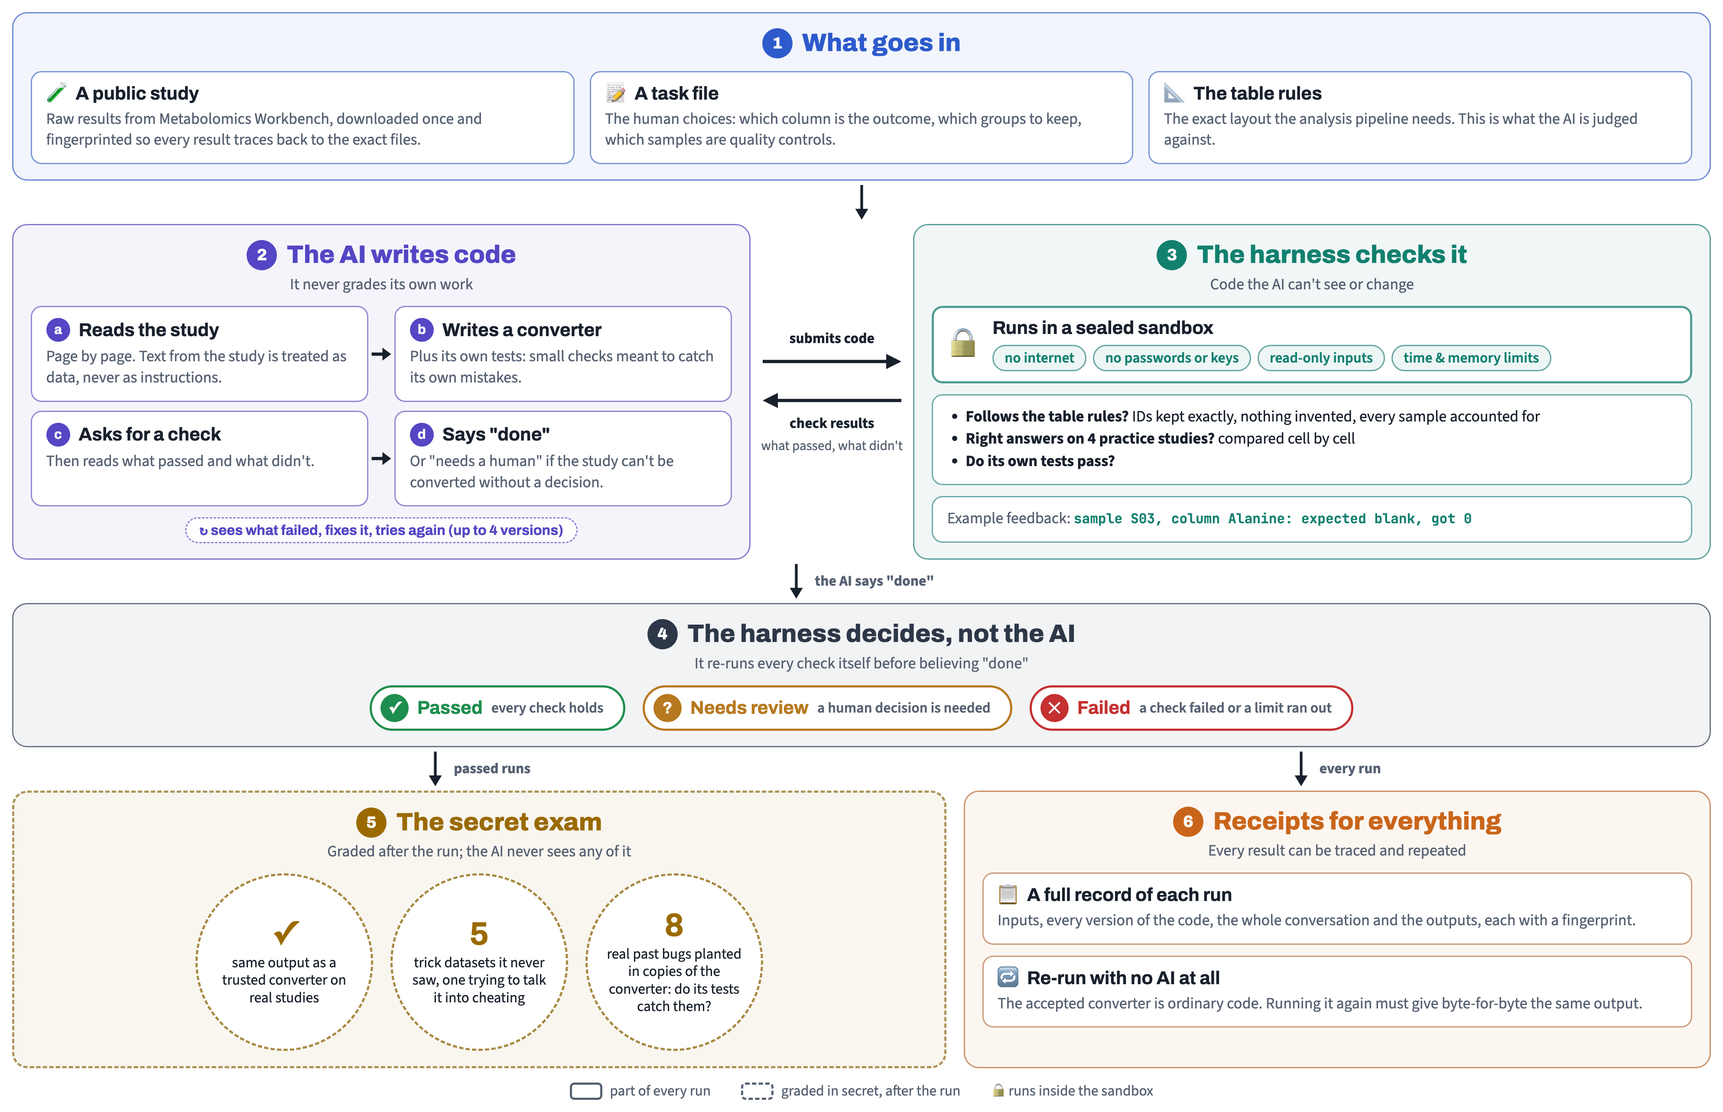
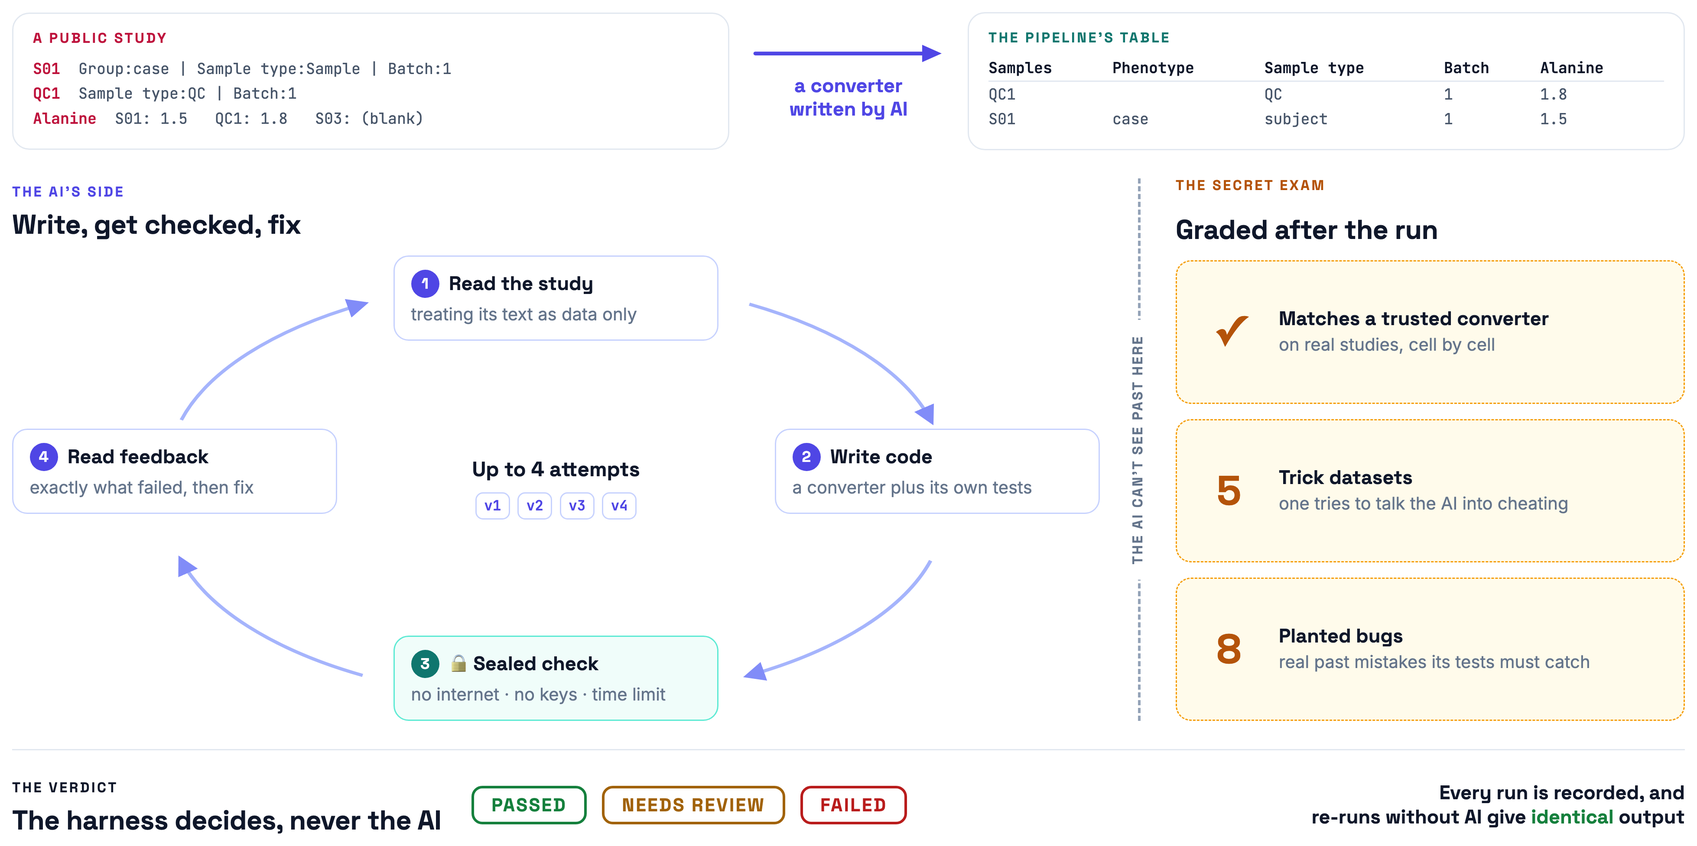
Redesign the how-it-works figure around this workflow
Replace the tx_analysis-style stacked bands with a layout specific to this
harness, with less text:

- the job, shown literally: a raw study snippet becomes the pipeline's table
  through a converter written by AI;
- the repair loop drawn as a loop of four steps around 'up to 4 attempts',
  with the sealed sandbox as one of them;
- a dashed line the AI can't see past, with the secret exam on the other side;
- the verdict stamps and the identical re-run.

Its own fonts and palette. The README alt text describes the new figure.

diff --git a/docs/figures/how-it-works.html b/docs/figures/how-it-works.html
@@ -3,210 +3,146 @@
 <head>
 <meta charset="utf-8">
 <title>study-onboarding-agent: how it works</title>
-<link rel="stylesheet" href="https://fonts.googleapis.com/css2?family=Archivo:wght@600;700;800&family=JetBrains+Mono:wght@500;700&family=Source+Sans+3:wght@400;600;700&display=block">
+<link rel="stylesheet" href="https://fonts.googleapis.com/css2?family=Space+Grotesk:wght@500;700&family=Inter:wght@400;500;600&family=JetBrains+Mono:wght@400;600&display=block">
 <style>
 :root {
-  --paper: #FFFFFF;
-  --ink: #18202C;
-  --muted: #566172;
-  --line: #CAD2DD;
-  --inputs: #2E5BCB;
-  --agent: #5446C4;
-  --harness: #12806F;
-  --decide: #2D3748;
-  --hidden: #9A6A00;
-  --record: #C9651A;
-  --pass: #1E8E4E;
-  --review: #B7791F;
-  --fail: #C53030;
-  --display: "Archivo", "Helvetica Neue", Arial, sans-serif;
-  --body: "Source Sans 3", "Segoe UI", Arial, sans-serif;
+  --ink: #0F172A;
+  --muted: #64748B;
+  --line: #E2E8F0;
+  --agent: #4F46E5;
+  --box: #0F766E;
+  --exam: #B45309;
+  --raw: #BE123C;
+  --pass: #15803D;
+  --review: #A16207;
+  --fail: #B91C1C;
+  --display: "Space Grotesk", "Helvetica Neue", Arial, sans-serif;
+  --body: "Inter", "Segoe UI", Arial, sans-serif;
   --mono: "JetBrains Mono", Menlo, monospace;
 }
 * { box-sizing: border-box; }
-html, body { margin: 0; background: var(--paper); color: var(--ink); font-family: var(--body); font-size: 15px; line-height: 1.35; }
-.canvas { width: 1600px; padding: 16px; display: grid; }
+html, body { margin: 0; background: #fff; color: var(--ink); font-family: var(--body); font-size: 16px; line-height: 1.4; }
+.canvas { width: 1600px; padding: 24px 28px; display: grid; gap: 26px; }
+.label { font: 700 13px/1 var(--display); letter-spacing: .14em; text-transform: uppercase; }
+h2 { margin: 6px 0 0; font: 700 25px/1.15 var(--display); letter-spacing: -.01em; }
+p { margin: 0; color: var(--muted); }
 
-.band {
-  --hue: var(--muted);
-  border: 1.5px solid color-mix(in srgb, var(--hue) 60%, var(--line));
-  background: color-mix(in srgb, var(--hue) 6%, var(--paper));
-  border-radius: 14px; padding: 12px 16px 14px; display: grid; gap: 10px; align-content: start;
-}
-.band.hidden { border-style: dashed; border-width: 2px; }
-.inputs { --hue: var(--inputs); }
-.agent { --hue: var(--agent); }
-.harness { --hue: var(--harness); }
-.decide { --hue: var(--decide); }
-.hiddenb { --hue: var(--hidden); }
-.record { --hue: var(--record); }
+/* 1. before -> after */
+.job { display: grid; grid-template-columns: 1fr 220px 1fr; align-items: center; gap: 0; }
+.pane { border: 1.5px solid var(--line); border-radius: 16px; padding: 16px 18px; display: grid; gap: 10px; }
+.raw .label { color: var(--raw); }
+.clean .label { color: var(--box); }
+.rawtext { font: 400 14px/1.65 var(--mono); color: #475569; white-space: pre; }
+.rawtext b { color: var(--raw); font-weight: 600; }
+table { border-collapse: collapse; font: 400 14px/1.5 var(--mono); }
+th, td { padding: 1px 16px 1px 0; text-align: left; }
+th { font-weight: 600; color: var(--ink); border-bottom: 1.5px solid var(--line); }
+td { color: #475569; }
+.bridge { display: grid; justify-items: center; gap: 8px; text-align: center; }
+.bridge svg { width: 180px; height: 22px; }
+.bridge b { font: 700 18px/1.2 var(--display); color: var(--agent); }
 
-.head { display: grid; justify-items: center; gap: 2px; text-align: center; }
-.title { font-family: var(--display); font-weight: 800; font-size: 23px; color: var(--hue); margin: 0; display: flex; align-items: center; gap: 9px; }
-.badge { width: 28px; height: 28px; border-radius: 50%; display: grid; place-items: center; background: var(--hue); color: #fff; font: 800 15px/1 var(--display); }
-.role { margin: 0; color: var(--muted); font-size: 14.5px; }
+/* 2. the AI's loop | wall | the secret exam */
+.stage { display: grid; grid-template-columns: 1fr 70px 470px; }
+.room .label { color: var(--agent); }
+.ring { position: relative; height: 430px; margin-top: 14px; }
+.ring svg { position: absolute; inset: 0; width: 100%; height: 100%; }
+.node { position: absolute; width: 300px; background: #fff; border: 1.5px solid #C7D2FE; border-radius: 14px; padding: 12px 15px; display: grid; gap: 4px; }
+.node h3 { margin: 0; font: 700 18px/1.2 var(--display); display: flex; align-items: center; gap: 9px; }
+.n { flex: none; width: 26px; height: 26px; border-radius: 50%; background: var(--agent); color: #fff; display: grid; place-items: center; font: 700 14px/1 var(--display); }
+.n1 { left: calc(50% - 150px); top: 0; }
+.n2 { right: 0; top: 160px; }
+.n3 { left: calc(50% - 150px); bottom: 0; border-color: #5EEAD4; background: #F0FDFA; }
+.n3 .n { background: var(--box); }
+.n4 { left: 0; top: 160px; }
+.hub { position: absolute; left: calc(50% - 110px); top: 140px; width: 220px; height: 150px; display: grid; place-content: center; justify-items: center; gap: 10px; text-align: center; }
+.hub b { font: 700 19px/1.2 var(--display); }
+.tries { display: flex; gap: 7px; }
+.tries i { font: 600 13px/1 var(--mono); font-style: normal; color: var(--agent); border: 1.5px solid #C7D2FE; border-radius: 7px; padding: 5px 7px; }
 
-.card {
-  background: var(--paper); border: 1.5px solid color-mix(in srgb, var(--hue) 50%, var(--line));
-  border-radius: 10px; padding: 10px 13px 11px; display: grid; gap: 4px; align-content: start;
-}
-.card.hidden { border-style: dashed; }
-.card h3 { font-family: var(--display); font-weight: 700; font-size: 17px; margin: 0; line-height: 1.15; display: flex; align-items: center; gap: 8px; }
-.card p { margin: 0; font-size: 14.5px; color: var(--muted); }
-.card ul { margin: 0; padding-left: 17px; font-size: 14.5px; display: grid; gap: 1px; }
-.icon { font-size: 19px; line-height: 1; }
-.num { flex: none; width: 22px; height: 22px; border-radius: 50%; display: grid; place-items: center;
-  font: 700 12.5px/1 var(--display); color: #fff; background: var(--hue); }
-.mono { font-family: var(--mono); font-size: 12.5px; color: var(--hue); font-weight: 700; }
+.wall { position: relative; display: grid; place-items: center; }
+.wall::before { content: ""; position: absolute; top: 0; bottom: 0; left: 50%; border-left: 2.5px dashed #94A3B8; }
+.wall span { position: relative; writing-mode: vertical-rl; transform: rotate(180deg); background: #fff; padding: 14px 0;
+  font: 700 13px/1 var(--display); letter-spacing: .12em; text-transform: uppercase; color: var(--muted); }
 
-.row3 { display: grid; grid-template-columns: 1fr 1fr 1fr; gap: 14px; }
-.steps { display: grid; grid-template-columns: 1fr 24px 1fr; gap: 8px 0; align-items: stretch; }
-.arr { display: grid; place-items: center; color: var(--ink); }
-.arr svg { width: 20px; height: 14px; }
+.exam { display: grid; gap: 14px; grid-template-rows: auto auto 1fr 1fr 1fr; }
+.exam .label { color: var(--exam); }
+.item { display: grid; grid-template-columns: 64px 1fr; gap: 2px 14px; align-items: center; align-content: center; border: 1.5px dashed #F59E0B; background: #FFFBEB; border-radius: 14px; padding: 14px 16px; }
+.item .big { grid-row: span 2; font: 700 38px/1 var(--display); color: var(--exam); text-align: center; }
+.item h3 { margin: 0; font: 700 18px/1.2 var(--display); }
 
-/* the repair loop: agent | exchange arrows | harness */
-.loop { display: grid; grid-template-columns: 1fr 150px 1.08fr; align-items: stretch; }
-.exchange { display: grid; align-content: center; gap: 18px; padding: 0 6px; }
-.ex { display: grid; justify-items: center; gap: 3px; text-align: center; }
-.ex span { font-size: 13.5px; font-weight: 700; color: var(--ink); }
-.ex small { font-size: 12.5px; color: var(--muted); }
-.ex svg { width: 132px; height: 18px; }
-.retry { justify-self: center; border: 1.5px dashed color-mix(in srgb, var(--agent) 55%, var(--line)); color: var(--agent);
-  border-radius: 999px; padding: 3px 12px; font: 700 13px/1.2 var(--display); background: var(--paper); }
-
-.sandbox { display: grid; grid-template-columns: auto 1fr; gap: 12px; align-items: center;
-  background: var(--paper); border: 2px solid color-mix(in srgb, var(--harness) 65%, var(--line)); border-radius: 10px; padding: 9px 12px; }
-.lock { font-size: 30px; line-height: 1; }
-.sandbox h3 { margin: 0 0 6px; font: 700 17px/1.1 var(--display); }
-.chips { display: flex; flex-wrap: wrap; gap: 6px; }
-.chip { border: 1.5px solid color-mix(in srgb, var(--harness) 55%, var(--line)); color: var(--harness);
-  border-radius: 999px; padding: 2px 10px; font: 600 13.5px/1.35 var(--body); background: color-mix(in srgb, var(--harness) 7%, var(--paper)); }
-
-/* status pills */
-.verdicts { display: flex; justify-content: center; gap: 16px; }
-.pill { display: flex; align-items: center; gap: 8px; border-radius: 999px; padding: 6px 18px 6px 8px; background: var(--paper);
-  border: 2px solid var(--c); font: 700 17px/1 var(--display); color: var(--c); }
-.pill i { font-style: normal; width: 26px; height: 26px; border-radius: 50%; background: var(--c); color: #fff; display: grid; place-items: center; font-size: 15px; }
-.pill small { font: 600 13.5px/1.2 var(--body); color: var(--muted); }
-.p-pass { --c: var(--pass); }
-.p-review { --c: var(--review); }
-.p-fail { --c: var(--fail); }
-
-/* circles for hidden grading */
-.circles { display: flex; justify-content: center; gap: 16px; }
-.circle { width: 164px; height: 164px; border-radius: 50%; background: var(--paper);
-  border: 2px dashed color-mix(in srgb, var(--hidden) 70%, var(--line));
-  display: grid; place-content: center; text-align: center; gap: 3px; padding: 14px; }
-.circle b { font-family: var(--display); font-size: 30px; line-height: 1; color: var(--hidden); }
-.circle span { font-size: 13.5px; line-height: 1.2; }
-
-.split { display: grid; grid-template-columns: 1.25fr 1fr; gap: 16px; }
-.conn { display: grid; height: 40px; }
-.conn.c2 { grid-template-columns: 1.25fr 1fr; column-gap: 16px; }
-.cc { display: flex; justify-content: center; align-items: center; gap: 10px; color: var(--ink); }
-.cc svg { width: 14px; height: 36px; }
-.cc span { font-size: 13.5px; color: var(--muted); font-weight: 700; }
-
-.foot { display: flex; justify-content: center; gap: 28px; margin-top: 12px; font-size: 13.5px; color: var(--muted); align-items: center; }
-.foot span { display: inline-flex; align-items: center; gap: 7px; }
-.sw { width: 30px; height: 16px; border-radius: 4px; border: 2px solid var(--muted); background: var(--paper); }
-.sw.d { border-style: dashed; }
+/* 3. verdict */
+.verdict { display: grid; grid-template-columns: auto 1fr auto; gap: 28px; align-items: center; border-top: 1.5px solid var(--line); padding-top: 22px; }
+.verdict .label { color: var(--ink); }
+.stamps { display: flex; gap: 14px; }
+.stamp { border: 2.5px solid var(--c); border-radius: 10px; padding: 7px 16px; font: 700 17px/1 var(--display); letter-spacing: .08em; text-transform: uppercase; color: var(--c); }
+.s1 { --c: var(--pass); } .s2 { --c: var(--review); } .s3 { --c: var(--fail); }
+.rerun { text-align: right; }
+.rerun b { display: block; font: 700 18px/1.25 var(--display); }
+.rerun b em { font-style: normal; color: var(--pass); }
 </style>
 </head>
 <body>
 <div class="canvas" id="canvas">
 
-  <!-- 1. Inputs -->
-  <section class="band inputs">
-    <div class="head"><h2 class="title"><span class="badge">1</span>What goes in</h2></div>
-    <div class="row3">
-      <div class="card"><h3><span class="icon">🧪</span>A public study</h3><p>Raw results from Metabolomics Workbench, downloaded once and fingerprinted so every result traces back to the exact files.</p></div>
-      <div class="card"><h3><span class="icon">📝</span>A task file</h3><p>The human choices: which column is the outcome, which groups to keep, which samples are quality controls.</p></div>
-      <div class="card"><h3><span class="icon">📐</span>The table rules</h3><p>The exact layout the analysis pipeline needs. This is what the AI is judged against.</p></div>
+  <section class="job">
+    <div class="pane raw">
+      <span class="label">A public study</span>
+<div class="rawtext"><b>S01</b>  Group:case | Sample type:Sample | Batch:1
+<b>QC1</b>  Sample type:QC | Batch:1
+<b>Alanine</b>  S01: 1.5   QC1: 1.8   S03: (blank)</div>
+    </div>
+    <div class="bridge">
+      <svg viewBox="0 0 180 22"><line x1="4" y1="11" x2="160" y2="11" stroke="#4F46E5" stroke-width="3.5" stroke-linecap="round"/><polygon points="158,3 176,11 158,19" fill="#4F46E5"/></svg>
+      <b>a converter<br>written by AI</b>
+    </div>
+    <div class="pane clean">
+      <span class="label">The pipeline's table</span>
+      <table>
+        <tr><th>Samples</th><th>Phenotype</th><th>Sample type</th><th>Batch</th><th>Alanine</th></tr>
+        <tr><td>QC1</td><td></td><td>QC</td><td>1</td><td>1.8</td></tr>
+        <tr><td>S01</td><td>case</td><td>subject</td><td>1</td><td>1.5</td></tr>
+      </table>
     </div>
   </section>
 
-  <div class="conn"><div class="cc"><svg viewBox="0 0 14 36"><line x1="7" y1="2" x2="7" y2="25" stroke="currentColor" stroke-width="2.5"/><polygon points="1,24 13,24 7,34" fill="currentColor"/></svg></div></div>
-
-  <!-- 2. Repair loop -->
-  <div class="loop">
-    <section class="band agent">
-      <div class="head"><h2 class="title"><span class="badge">2</span>The AI writes code</h2><p class="role">It never grades its own work</p></div>
-      <div class="steps">
-        <div class="card"><h3><span class="num">a</span>Reads the study</h3><p>Page by page. Text from the study is treated as data, never as instructions.</p></div>
-        <span class="arr"><svg viewBox="0 0 20 14"><line x1="1" y1="7" x2="12" y2="7" stroke="currentColor" stroke-width="3"/><polygon points="11,1 19,7 11,13" fill="currentColor"/></svg></span>
-        <div class="card"><h3><span class="num">b</span>Writes a converter</h3><p>Plus its own tests: small checks meant to catch its own mistakes.</p></div>
-        <div class="card"><h3><span class="num">c</span>Asks for a check</h3><p>Then reads what passed and what didn't.</p></div>
-        <span class="arr"><svg viewBox="0 0 20 14"><line x1="1" y1="7" x2="12" y2="7" stroke="currentColor" stroke-width="3"/><polygon points="11,1 19,7 11,13" fill="currentColor"/></svg></span>
-        <div class="card"><h3><span class="num">d</span>Says "done"</h3><p>Or "needs a human" if the study can't be converted without a decision.</p></div>
+  <section class="stage">
+    <div class="room">
+      <span class="label">The AI's side</span>
+      <h2>Write, get checked, fix</h2>
+      <div class="ring">
+        <svg viewBox="0 0 900 430" preserveAspectRatio="none">
+          <defs><marker id="ah" viewBox="0 0 10 10" refX="7" refY="5" markerWidth="6" markerHeight="6" orient="auto-start-reverse"><path d="M0,0 L10,5 L0,10 z" fill="#818CF8"/></marker></defs>
+          <path d="M 610 45 A 330 175 0 0 1 760 152" fill="none" stroke="#A5B4FC" stroke-width="3" marker-end="url(#ah)"/>
+          <path d="M 760 282 A 330 175 0 0 1 610 388" fill="none" stroke="#A5B4FC" stroke-width="3" marker-end="url(#ah)"/>
+          <path d="M 290 388 A 330 175 0 0 1 140 282" fill="none" stroke="#A5B4FC" stroke-width="3" marker-end="url(#ah)"/>
+          <path d="M 140 152 A 330 175 0 0 1 290 45" fill="none" stroke="#A5B4FC" stroke-width="3" marker-end="url(#ah)"/>
+        </svg>
+        <div class="node n1"><h3><span class="n">1</span>Read the study</h3><p>treating its text as data only</p></div>
+        <div class="node n2"><h3><span class="n">2</span>Write code</h3><p>a converter plus its own tests</p></div>
+        <div class="node n3"><h3><span class="n">3</span>🔒 Sealed check</h3><p>no internet · no keys · time limit</p></div>
+        <div class="node n4"><h3><span class="n">4</span>Read feedback</h3><p>exactly what failed, then fix</p></div>
+        <div class="hub"><b>Up to 4 attempts</b><div class="tries"><i>v1</i><i>v2</i><i>v3</i><i>v4</i></div></div>
       </div>
-      <div class="retry">↻ sees what failed, fixes it, tries again (up to 4 versions)</div>
-    </section>
-
-    <div class="exchange">
-      <div class="ex"><span>submits code</span>
-        <svg viewBox="0 0 132 18"><line x1="2" y1="9" x2="118" y2="9" stroke="currentColor" stroke-width="3"/><polygon points="116,2 130,9 116,16" fill="currentColor"/></svg></div>
-      <div class="ex">
-        <svg viewBox="0 0 132 18"><line x1="14" y1="9" x2="130" y2="9" stroke="currentColor" stroke-width="3"/><polygon points="16,2 2,9 16,16" fill="currentColor"/></svg>
-        <span>check results</span><small>what passed, what didn't</small></div>
     </div>
 
-    <section class="band harness">
-      <div class="head"><h2 class="title"><span class="badge">3</span>The harness checks it</h2><p class="role">Code the AI can't see or change</p></div>
-      <div class="sandbox">
-        <span class="lock">🔒</span>
-        <div><h3>Runs in a sealed sandbox</h3>
-          <div class="chips"><span class="chip">no internet</span><span class="chip">no passwords or keys</span><span class="chip">read-only inputs</span><span class="chip">time &amp; memory limits</span></div></div>
-      </div>
-      <div class="card"><ul>
-        <li><b>Follows the table rules?</b> IDs kept exactly, nothing invented, every sample accounted for</li>
-        <li><b>Right answers on 4 practice studies?</b> compared cell by cell</li>
-        <li><b>Do its own tests pass?</b></li>
-      </ul></div>
-      <div class="card"><p>Example feedback: <span class="mono">sample S03, column Alanine: expected blank, got 0</span></p></div>
-    </section>
-  </div>
+    <div class="wall"><span>The AI can't see past here</span></div>
 
-  <div class="conn"><div class="cc"><svg viewBox="0 0 14 36"><line x1="7" y1="2" x2="7" y2="25" stroke="currentColor" stroke-width="2.5"/><polygon points="1,24 13,24 7,34" fill="currentColor"/></svg><span>the AI says "done"</span></div></div>
-
-  <!-- 4. Decision -->
-  <section class="band decide">
-    <div class="head"><h2 class="title"><span class="badge">4</span>The harness decides, not the AI</h2><p class="role">It re-runs every check itself before believing "done"</p></div>
-    <div class="verdicts">
-      <div class="pill p-pass"><i>✓</i>Passed <small>every check holds</small></div>
-      <div class="pill p-review"><i>?</i>Needs review <small>a human decision is needed</small></div>
-      <div class="pill p-fail"><i>✕</i>Failed <small>a check failed or a limit ran out</small></div>
+    <div class="exam">
+      <span class="label">The secret exam</span>
+      <h2>Graded after the run</h2>
+      <div class="item"><span class="big">✓</span><h3>Matches a trusted converter</h3><p>on real studies, cell by cell</p></div>
+      <div class="item"><span class="big">5</span><h3>Trick datasets</h3><p>one tries to talk the AI into cheating</p></div>
+      <div class="item"><span class="big">8</span><h3>Planted bugs</h3><p>real past mistakes its tests must catch</p></div>
     </div>
   </section>
 
-  <div class="conn c2">
-    <div class="cc"><svg viewBox="0 0 14 36"><line x1="7" y1="2" x2="7" y2="25" stroke="currentColor" stroke-width="2.5"/><polygon points="1,24 13,24 7,34" fill="currentColor"/></svg><span>passed runs</span></div>
-    <div class="cc"><svg viewBox="0 0 14 36"><line x1="7" y1="2" x2="7" y2="25" stroke="currentColor" stroke-width="2.5"/><polygon points="1,24 13,24 7,34" fill="currentColor"/></svg><span>every run</span></div>
-  </div>
+  <section class="verdict">
+    <div><span class="label">The verdict</span><h2>The harness decides, never the AI</h2></div>
+    <div class="stamps"><span class="stamp s1">Passed</span><span class="stamp s2">Needs review</span><span class="stamp s3">Failed</span></div>
+    <div class="rerun"><b>Every run is recorded, and<br>re-runs without AI give <em>identical</em> output</b></div>
+  </section>
 
-  <!-- 5 & 6 -->
-  <div class="split">
-    <section class="band hiddenb hidden">
-      <div class="head"><h2 class="title"><span class="badge">5</span>The secret exam</h2><p class="role">Graded after the run; the AI never sees any of it</p></div>
-      <div class="circles">
-        <div class="circle"><b>✓</b><span>same output as a trusted converter on real studies</span></div>
-        <div class="circle"><b>5</b><span>trick datasets it never saw, one trying to talk it into cheating</span></div>
-        <div class="circle"><b>8</b><span>real past bugs planted in copies of the converter: do its tests catch them?</span></div>
-      </div>
-    </section>
-
-    <section class="band record">
-      <div class="head"><h2 class="title"><span class="badge">6</span>Receipts for everything</h2><p class="role">Every result can be traced and repeated</p></div>
-      <div class="card"><h3><span class="icon">📋</span>A full record of each run</h3><p>Inputs, every version of the code, the whole conversation and the outputs, each with a fingerprint.</p></div>
-      <div class="card"><h3><span class="icon">🔁</span>Re-run with no AI at all</h3><p>The accepted converter is ordinary code. Running it again must give byte-for-byte the same output.</p></div>
-    </section>
-  </div>
-
-  <div class="foot">
-    <span><span class="sw"></span>part of every run</span>
-    <span><span class="sw d"></span>graded in secret, after the run</span>
-    <span>🔒 runs inside the sandbox</span>
-  </div>
 </div>
 </body>
 </html>

diff --git a/README.md b/README.md
@@ -2,7 +2,7 @@
 
 [![CI](https://github.com/Jack-Coutts/study-onboarding-agent/actions/workflows/ci.yml/badge.svg)](https://github.com/Jack-Coutts/study-onboarding-agent/actions/workflows/ci.yml)
 
-![How it works: a public study, a task file, and the table rules go in. The AI reads the study and writes a converter with its own tests. The harness checks them in a sealed sandbox with no internet or keys and sends back what passed, and the AI repairs and resubmits up to four times. When the AI says done, the harness re-runs every check and decides passed, needs review, or failed. Passed runs then sit a secret exam the AI never sees: matching a trusted converter on real studies, five trick datasets, and eight planted bugs its tests must catch. Every run keeps a fingerprinted record and can be re-run without the AI.](docs/figures/how-it-works.png)
+![How it works. The job: turn a public study, where each sample's details are packed into one line of text, into the pipeline's table with one row per sample and one column per metabolite, using a converter written by AI. On the AI's side, it loops: read the study (treating its text as data only), write a converter plus its own tests, have them checked in a sealed sandbox with no internet, no keys and a time limit, then read exactly what failed and fix it, for up to four attempts. Behind a line the AI can't see past, a secret exam grades the result after the run: matching a trusted converter on real studies, five trick datasets, and eight planted bugs its tests must catch. The harness, never the AI, gives the verdict: passed, needs review, or failed. Every run is recorded, and re-running without AI gives identical output.](docs/figures/how-it-works.png)
 
 <sub>Figure source: `docs/figures/how-it-works.html`. To redraw it, run
 `uv run --with pillow python docs/figures/render_how_it_works.py` (needs Google
